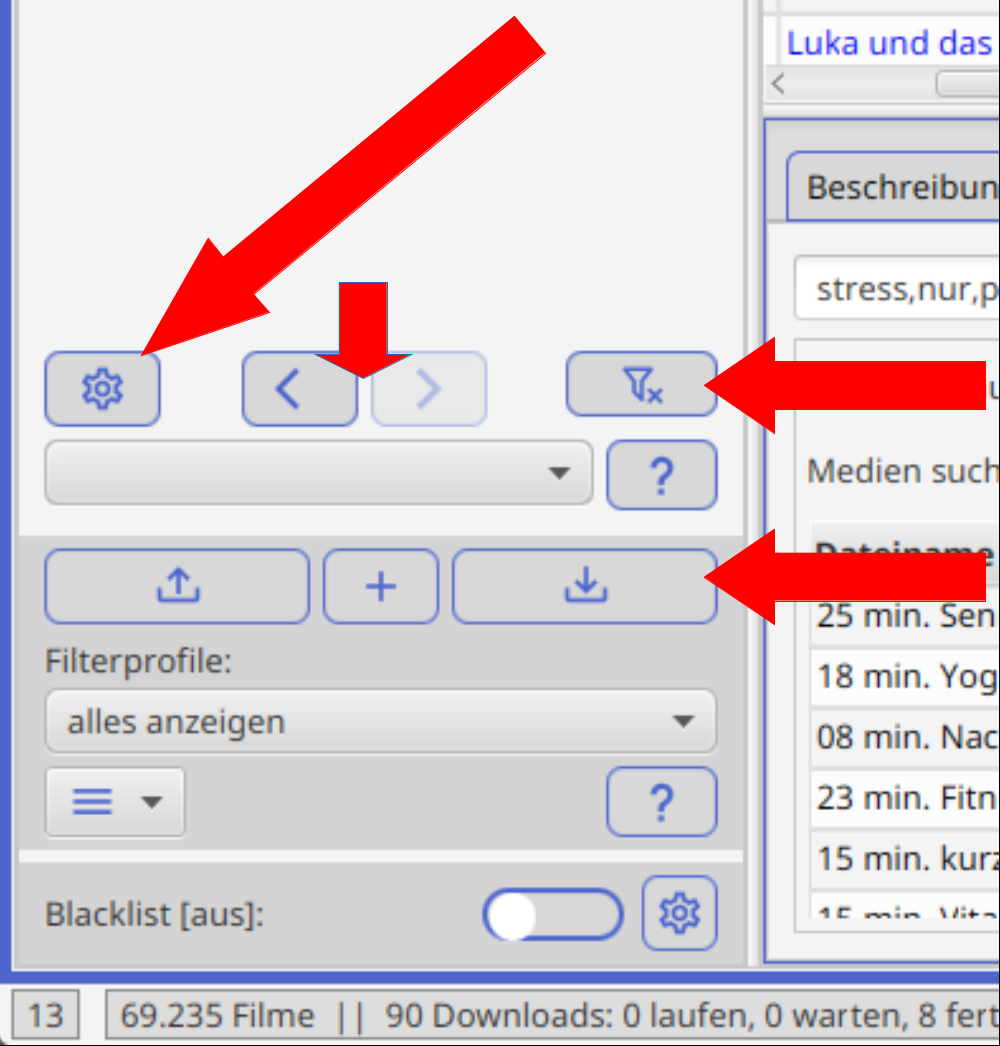
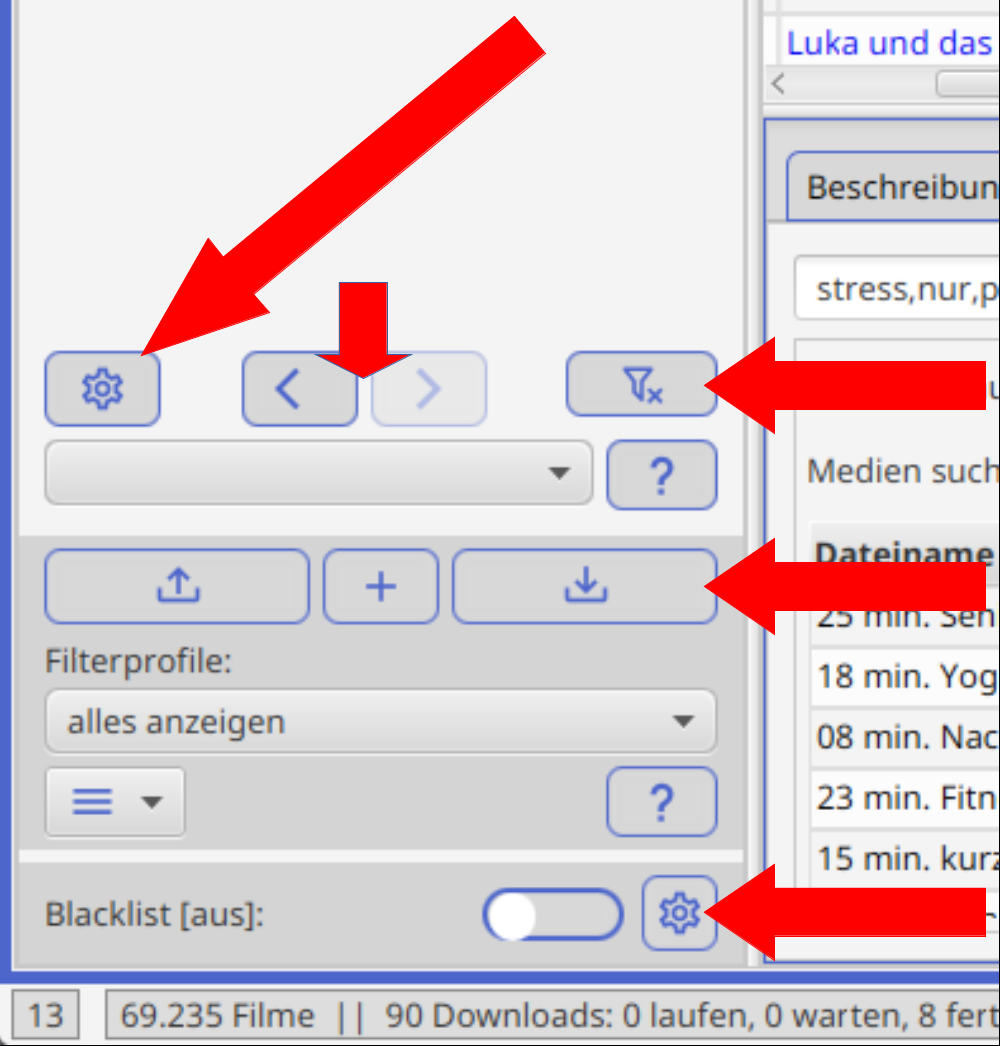
tips dialog

Changed region(s): [[0.713, 0.826, 0.992, 0.9178], [0.682, 0.4895, 0.992, 0.5813], [0.744, 0.5813, 0.775, 0.6119]]

diff --git a/src/main/java/de/p2tools/mtplayer/controller/tips/TipListFilter.java b/src/main/java/de/p2tools/mtplayer/controller/tips/TipListFilter.java
@@ -31,7 +31,9 @@ public class TipListFilter {
         String text = "Der Filter der Filme ist in " +
                 "mehrere Bereiche geteilt. " +
                 "Oben sind die Textfilter " +
-                "(z.B.: Thema oder Titel). Danach " +
+                "(z.B.: Thema oder Titel)." +
+                "\n\n" +
+                "Danach " +
                 "kommen die Filter die nach " +
                 "Filmeigenschaften (z.B.: " +
                 "Filmlänge) suchen." +
@@ -39,12 +41,9 @@ public class TipListFilter {
                 "Unten sind die Einstellungen " +
                 "der Filter. Dort kann ausgewählt " +
                 "werden, welche Filter angezeigt " +
-                "werden sollen." +
-                "\n\n" +
-                "Dort können auch Filtereinstellungen " +
+                "werden sollen. Dort können auch Filtereinstellungen " +
                 "in Profilen gespeichert und " +
-                "wieder abgerufen werden." +
-                "";
+                "wieder abgerufen werden.";
         String image = "/de/p2tools/mtplayer/res/tips/filter/filter-1.png";
         TipData pToolTip = new TipData(text, image);
         pToolTipList.add(pToolTip);
@@ -54,27 +53,67 @@ public class TipListFilter {
                 "sollen, kann mit dem \"Zahnrad\" " +
                 "ausgewählt werden." +
                 "\n\n" +
+                "Mit den beiden Pfeilen " +
+                "(rechts/links) kann in den " +
+                "verwendeten Filtern zurück und " +
+                "vorwärts geblättert werden." +
+                "\n\n" +
                 "Der \"Trichter\" löscht die Filter. " +
                 "Der erste Klick darauf, löscht nur " +
                 "die Textfilter oben. Der zweite " +
                 "Klick löscht auch die weiteren " +
                 "Filter darunter." +
                 "\n\n" +
-                "Mit den beiden Pfeilen " +
-                "(rechts/links) kann in den " +
-                "verwendeten Filtern zurück und " +
-                "vorwärts geblättert werden." +
-                "\n\n" +
                 "Unten kann man Filtereinstellungen " +
-                "in einem Profil speichern. Das " +
-                "\"Plus\" legt ein neues Profil mit " +
-                "den aktuellen Filtereinstellungen " +
-                "an. Der \"Pfeil nach oben\" stellt " +
-                "das ausgewählte Profil wieder her. " +
-                "Der \"Pfeil nach unter\" speichert " +
-                "die aktuellen Filtereinstellungen in " +
-                "dem ausgewählten Profile.";
+                "in einem Profil speichern und wieder " +
+                "abrufen" +
+                "\n\n" +
+                "Ganz unter kann die Blacklist ein- und " +
+                "ausgeschaltet werden. Mit dem Zahnrad daneben " +
+                "kommt man zu den Einstellungen der Blacklist.";
         image = "/de/p2tools/mtplayer/res/tips/filter/filter-2.png";
+        pToolTip = new TipData(text, image);
+        pToolTipList.add(pToolTip);
+
+
+        text = "Filter-Profile sind gespeicherte Filtereinstellungen." +
+                "\n\n" +
+                "Das beinhaltet, " +
+                "welche Filter (Thema, Titel, ..) eingeschaltet sind. Auch der Suchtext eines Filters " +
+                "(z.B. \"Sport\") wird im Profil gespeichert." +
+                "\n\n" +
+                "Mit der Auswahlbox wählt man eins aus, das " +
+                "dann auch eingestellt wird. " +
+                "Im Filterpanel werden dann die im Filter-Profil gespeicherten " +
+                "Einstellungen angezeigt." +
+                "\n\n" +
+                "Mit dem \"Plus\" wird ein neues Profil angelegt. Der " +
+                "\"Pfeil nach oben\" stellt das ausgewählte Profil wieder her. " +
+                "Der \"Pfeil nach unten\" speichert die aktuellen Filtereinstellungen in " +
+                "dem ausgewählten Profil. In dem Menü darunter können die Profile verwaltet (Sortiert, ..) " +
+                "werden.";
+        image = "/de/p2tools/mtplayer/res/tips/filter/filter-5.png";
+        pToolTip = new TipData(text, image);
+        pToolTipList.add(pToolTip);
+
+
+        text = "Im Filterpanel werden hier die angelegten Filter-Profile " +
+                "angezeigt." +
+                "\n\n" +
+                "In den Einstellungen kann man eins dieser " +
+                "Filter-Profile auswählen, " +
+                "das dann beim Programmstart eingestellt wird." +
+                "\n\n" +
+                "Ansonsten wird " +
+                "immer der zuletzt verwendete Filter wieder eingestellt.";
+        image = "/de/p2tools/mtplayer/res/tips/filter/filter-6.png";
+        pToolTip = new TipData(text, image);
+        pToolTipList.add(pToolTip);
+
+
+        text = "Hier werden die zuletzt verwendeten Textfilter (Thema, Titel, ..) " +
+                "angezeigt und können so wieder abgerufen werden.";
+        image = "/de/p2tools/mtplayer/res/tips/filter/filter-7.png";
         pToolTip = new TipData(text, image);
         pToolTipList.add(pToolTip);
 
@@ -90,7 +129,15 @@ public class TipListFilter {
         text = "Hier kann ein einfaches Filterfeld " +
                 "eingestellt werden, wenn man nur einen Textfilter " +
                 "zum Suchen braucht. Mit dem Button (zwei Pfeile) " +
-                "kann ausgewählt werden, wo gesucht wird (Thema, Titel).";
+                "kann ausgewählt werden, wo gesucht wird (Thema, Titel)." +
+                "\n\n" +
+                "Dazu zuerst den Filmfilter (links) so einstellen wie man möchte. " +
+                "Dann diese Funktion in der Toolbar auswählen. Es ist dann nur " +
+                "noch das Filterfeld oben zu sehen." +
+                "\n\n" +
+                "Jetzt wird dann mit den Filtereinstellungen " +
+                "des Filmfilter (links, der jetzt ausgeblendet ist) und dem Filterfeld in " +
+                "der Toolbar gefiltert.";
         image = "/de/p2tools/mtplayer/res/tips/filter/filter-4.png";
         pToolTip = new TipData(text, image);
         pToolTipList.add(pToolTip);
